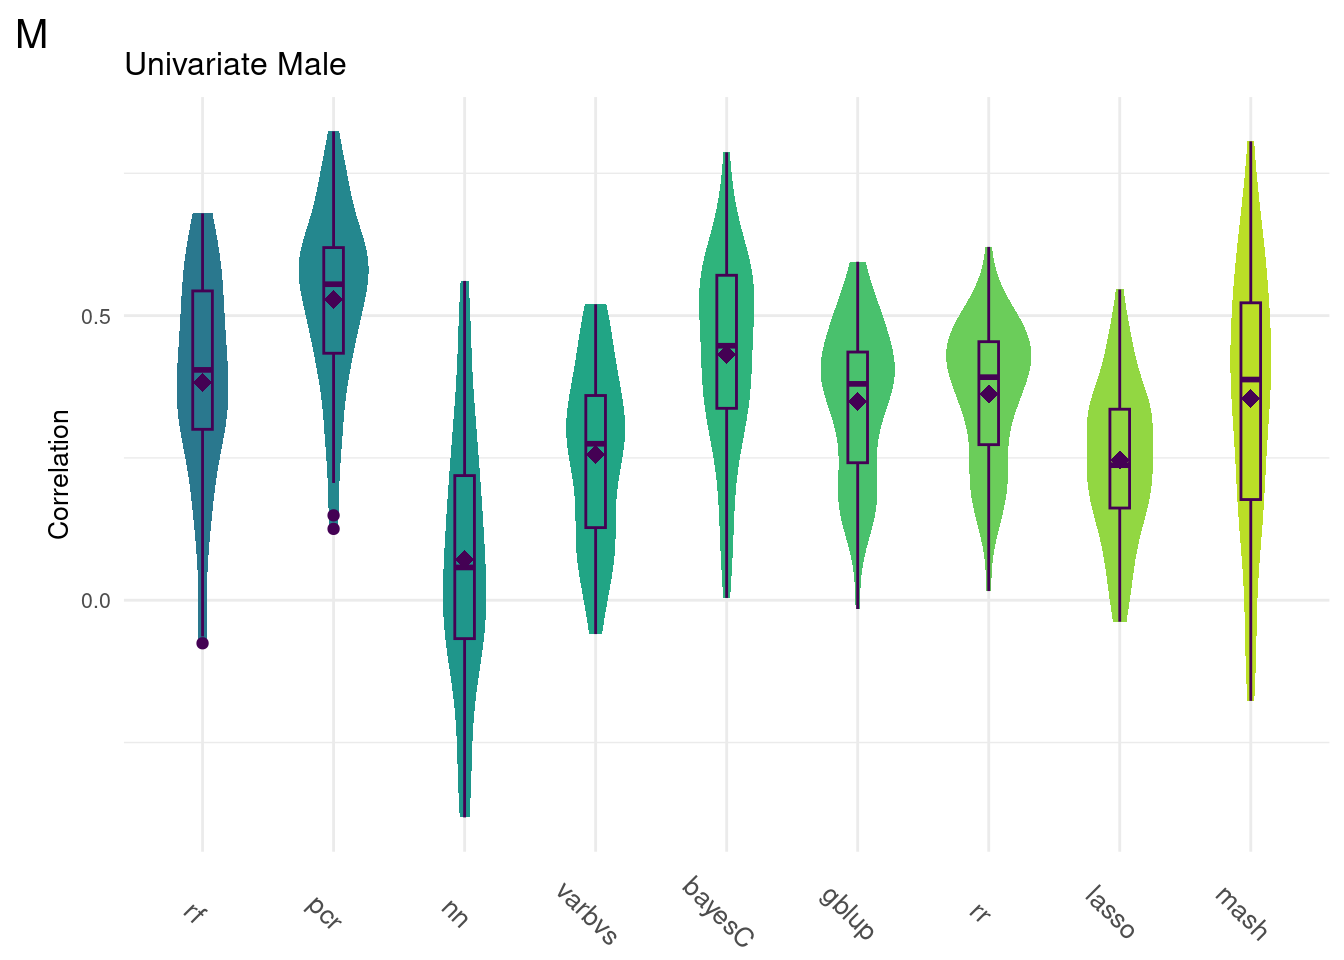
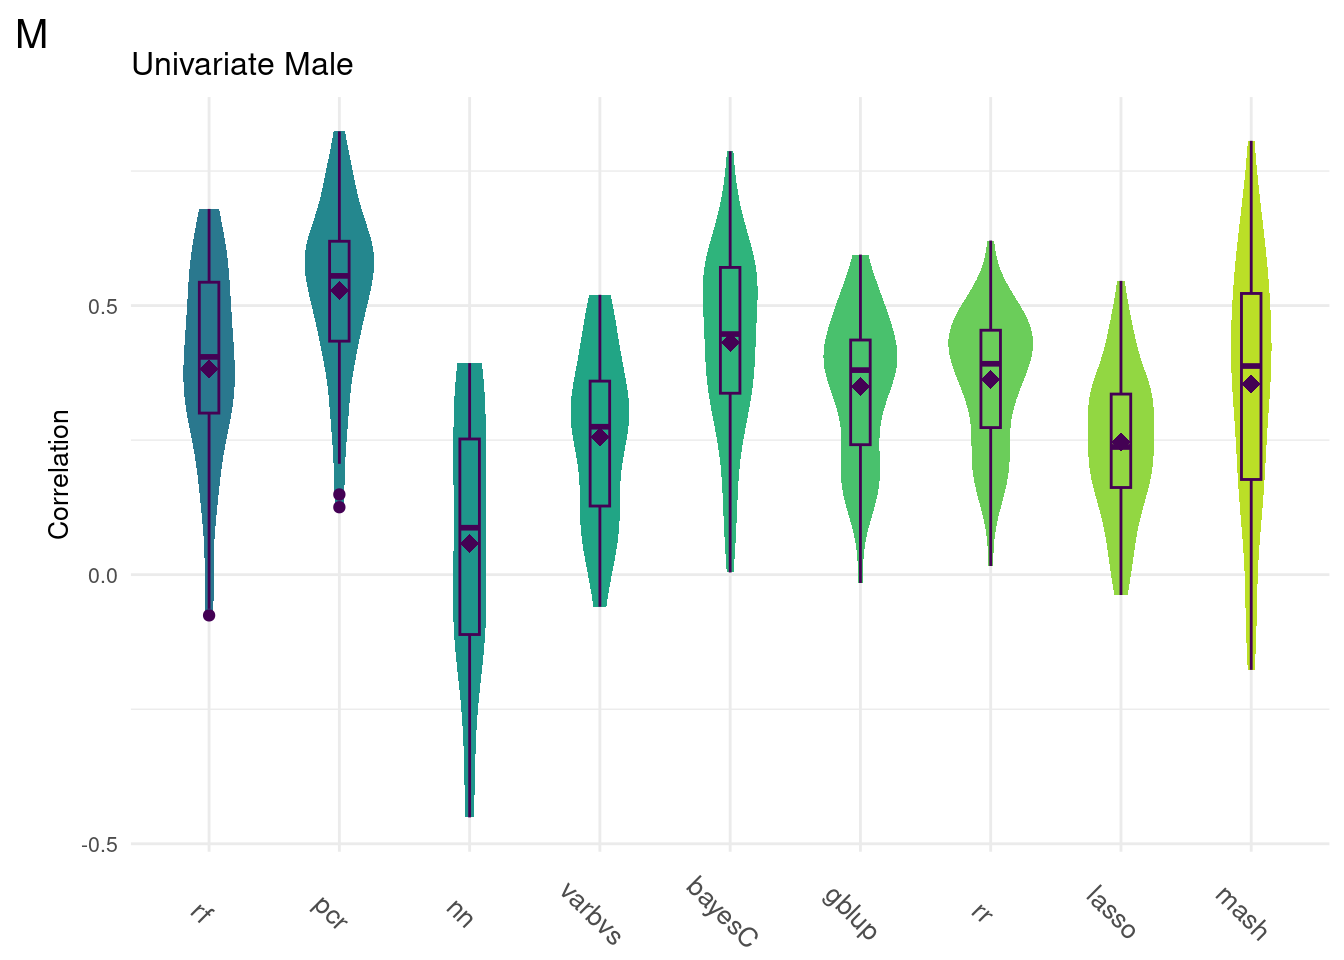
Build site.

diff --git a/docs/allHist.html b/docs/allHist.html
@@ -509,16 +509,16 @@ relative
 <div class="panel panel-default">
 <div class="panel-heading">
 <p class="panel-title">
-<a data-toggle="collapse" data-parent="#workflowr-checks" href="#strongRepositoryversionstrongahrefhttpsgithubcomnklimkodgrpstarvetree8ead827b248524e68d53af8c4d3816b17516016atargetblank8ead827a"> <span class="glyphicon glyphicon-ok text-success" aria-hidden="true"></span> <strong>Repository version:</strong> <a href="https://github.com/nklimko/dgrp-starve/tree/8ead827b248524e68d53af8c4d3816b17516016a" target="_blank">8ead827</a> </a>
+<a data-toggle="collapse" data-parent="#workflowr-checks" href="#strongRepositoryversionstrongahrefhttpsgithubcomnklimkodgrpstarvetree2f076f141ffc61b3817a6178847c19109aa38c53targetblank2f076f1a"> <span class="glyphicon glyphicon-ok text-success" aria-hidden="true"></span> <strong>Repository version:</strong> <a href="https://github.com/nklimko/dgrp-starve/tree/2f076f141ffc61b3817a6178847c19109aa38c53" target="_blank">2f076f1</a> </a>
 </p>
 </div>
[2 lines of base64/hex data omitted]
 <div class="panel-body">
 <p>
 Great! You are using Git for version control. Tracking code development and connecting the code version to the results is critical for reproducibility.
 </p>
 <p>
-The results in this page were generated with repository version <a href="https://github.com/nklimko/dgrp-starve/tree/8ead827b248524e68d53af8c4d3816b17516016a" target="_blank">8ead827</a>. See the <em>Past versions</em> tab to see a history of the changes made to the R Markdown and HTML files.
+The results in this page were generated with repository version <a href="https://github.com/nklimko/dgrp-starve/tree/2f076f141ffc61b3817a6178847c19109aa38c53" target="_blank">2f076f1</a>. See the <em>Past versions</em> tab to see a history of the changes made to the R Markdown and HTML files.
 </p>
 <p>
 Note that you need to be careful to ensure that all relevant files for the analysis have been committed to Git prior to generating the results (you can use <code>wflow_publish</code> or <code>wflow_git_commit</code>). workflowr only checks the R Markdown file, but you know if there are other scripts or data files that it depends on. Below is the status of the Git repository when the results were generated:
@@ -592,6 +592,7 @@ Untracked files:
     Untracked:  posterPlots.R
     Untracked:  runtime.png
     Untracked:  snake/
+    Untracked:  temp.R
 
 Unstaged changes:
     Modified:   .Rprofile
@@ -691,6 +692,40 @@ Message
 </tr>
 </thead>
 <tbody>
+<tr>
+<td>
+Rmd
+</td>
+<td>
+<a href="https://github.com/nklimko/dgrp-starve/blob/2f076f141ffc61b3817a6178847c19109aa38c53/analysis/allHist.Rmd" target="_blank">2f076f1</a>
+</td>
+<td>
+nklimko
+</td>
+<td>
+2023-08-29
+</td>
+<td>
+wflow_publish(“analysis/allHist.Rmd”)
+</td>
+</tr>
+<tr>
+<td>
+html
+</td>
+<td>
+<a href="https://rawcdn.githack.com/nklimko/dgrp-starve/882cd4930eb2907c53bd895d930f9cf88cd69b2e/docs/allHist.html" target="_blank">882cd49</a>
+</td>
+<td>
+nklimko
+</td>
+<td>
+2023-08-29
+</td>
+<td>
+Build site.
+</td>
+</tr>
 <tr>
 <td>
 Rmd
@@ -862,17 +897,41 @@ filt &lt;- function(data, method){
     return(NA)
   }
 }</code></pre>
-<p>Pseudo:</p>
-<p>Intro to why</p>
-<p>Intro to methods</p>
-<p>Method line by line</p>
-<p>Results (all hist)</p>
-<p>explanation uni about equal to multi</p>
-<p>(sr hist)</p>
+<div id="intro-to-why" class="section level3">
+<h3>Intro to why</h3>
+<p>Complex trait prediction is based on the notion that some traits are impacted by a large number of small-effect genes which makes diagnosis or prediction challenging.</p>
+<p>We are using gene expression data over genomic frequencies as they have shown previously to provide more accurate models.</p>
+<p>This project is designed to establish a baseline comparison for statistical methods commonly used in the field</p>
+</div>
+<div id="intro-to-methods" class="section level3">
+<h3>Intro to methods</h3>
+<p>In order to improve model accuracy, we look at shrinkage and variable selection. Too much of either can result in overfitting of the model, but failure to perform either results in large variance that diminishes model accuracy.</p>
+<p>Shrinkage is based on the assumption that not all independent variables have the same effect on the response variable in a given model. The effects are scaled by a distribution of our choosing based on our assumption of the model. A normal distribution centered around 0 will scale most effects down while leaving more significant effects closer to 1. Changing the shape of the distribution changes the degree of shrinkage applied to the model.</p>
+<p>Variable selection takes another step in model assumptions. We assume under a general model that all variables have some effect on the response even if the effect is small. In order to reduce noise, we can select for variables that only have stronger effects by discarding weaker or insignificant independent variables from the model. With genes, this models our assumption that not all genes have an effect on the trait of interest, while a number of genes will have a pronounced effect on our complex trait.</p>
+</div>
+<div id="method-line-by-line" class="section level3">
+<h3>Method line by line</h3>
+<ul>
+<li><p>Random Forest: Random forest is a machine learning method that creates random networks of decision trees to create a linear regression Random Forest decision trees are used to discover impactful genes similar to how PCR selects for variance maximizing components.</p></li>
+<li><p>Principal Component Regression (PCR): Principal Component Regression uses principal component analysis to find combinations of independent variables that maximize the change in variance on the response variable. This process greatly reduces the dimensionality of the data. Within this, variable selection can be performed optimally by finding the greatest change in total variance explained and only using principal components up to that point.</p></li>
+<li><p>Neural Network (NN): Neural networks are a type of machine learning method where hidden layers of hyperparameters are used to evaluate the data. Learning is rewarded by maximizing change in variance. The current model has five layers with 7500, 5000, 2500, 1000, and 500 hyperparameters in order.</p></li>
+<li><p>Bayesian Variable Selection (BVS): Bayesian Variable Selection(BVS) uses a spike-and-slab prior to perform effect shrinkage and variable selection. The model is fit using Variational Inference(VI) methods.</p></li>
+<li><p>BayesC - BayesC uses a spike-and-slab prior to perform effect shrinkage and variable selection. The model is fit using Markov Chain Monte Carlo(MCMC) methods.</p></li>
+<li><p>Genomic Best Linear Unbiased Predictor (GBLUP): GBLUP is a linear mixed model created using the covariance of genomic relationships(geneXgene) to perform effect shrinkage.</p></li>
+<li><p>Ridge Regression (RR):Ridge Regression is a penalized regression method that performs effect shrinkage only.</p></li>
+<li><p>Least Absolute Shrinkage and Selection Operator (LASSO): LASSO uses the same penalized regression as Ridge regression with an added parameter to perform both effect shrinkage and variable selection.</p></li>
+<li><p>Multiple Regression with Multivariate Adaptive Shrinkage (MR.MASH): Mr. Mash performs shrinkage and variable selection by using a custom mixed prior. This prior can be generated using summary statistics alone or can be layered with covariance matrices derived from strong effects.</p></li>
+</ul>
+</div>
+<div id="all-models" class="section level3">
+<h3>All Models</h3>
+<p>Wtih traits that are correlated, we expect that changes in the trait of interest can be described by changes in additional trait values. We sought to incorporate this by taking the top three correlated traits into account in our multivariate models. The traits capillary feeding, free glycerol, and free glucose were selected for both males and females.</p>
+<p>In order to see if correlated traits could be used to improve model accuracy, we performed both univariate and multivariate analyses with models that permitted multiple response prediction.</p>
+<p>For every method tested, fifty replicates were created using an 80% train/20% test data split by DGRP2 line. Each column below is a distribution of the method’s correlation coefficient from all replicates.</p>
 <pre class="r"><code>allData &lt;- readRDS(&quot;data/all_hist_data_f.Rds&quot;)
 print(colMeans(allData))</code></pre>
 <pre><code>        sr_rf        sr_pcr         sr_nn     sr_varbvs     sr_bayesC 
-   0.36402243    0.45831216    0.05758642    0.41300077    0.31800121 
+   0.36402243    0.45831216            NA    0.41300077    0.31800121 
   top3_bayesC      sr_gblup    top3_gblup         sr_rr      sr_lasso 
    0.25436812    0.27998224    0.30159686    0.28108963    0.34736423 
    top3_lasso       sr_mash     top3_mash top3_datamash 
@@ -916,7 +975,7 @@ if(game){
 <pre class="r"><code>allData &lt;- readRDS(&quot;data/all_hist_data_m.Rds&quot;)
 print(colMeans(allData))</code></pre>
 <pre><code>        sr_rf        sr_pcr         sr_nn     sr_varbvs     sr_bayesC 
-   0.38175574    0.52833378    0.07124629    0.25543960    0.43129890 
+   0.38175574    0.52833378            NA    0.25543960    0.43129890 
   top3_bayesC      sr_gblup    top3_gblup         sr_rr      sr_lasso 
    0.35203327    0.34913991    0.36524616    0.36257400    0.24606199 
    top3_lasso       sr_mash     top3_mash top3_datamash 
@@ -957,18 +1016,167 @@ if(game){
           plot.tag = element_text(size=15)) +
     scale_fill_viridis(begin = 0.4, end=0.9,discrete=TRUE)
 }</code></pre>
-<div id="female-correlation" class="section level3">
-<h3>Female Correlation</h3>
+</div>
+<div id="univariate-models" class="section level3">
+<h3>Univariate Models</h3>
 <pre class="r"><code>plot_grid(gg[[1]], ncol=1)</code></pre>
 <p><img src="figure/allHist.Rmd/plot-print-all-1.png" width="672" style="display: block; margin: auto;" /></p>
+<p>
+<button type="button" class="btn btn-default btn-xs btn-workflowr btn-workflowr-fig" data-toggle="collapse" data-target="#fig-plot-print-all-1">
+Past versions of plot-print-all-1.png
+</button>
+</p>
+<div id="fig-plot-print-all-1" class="collapse">
+<div class="table-responsive">
+<table class="table table-condensed table-hover">
+<thead>
+<tr>
+<th>
+Version
+</th>
+<th>
+Author
+</th>
+<th>
+Date
+</th>
+</tr>
+</thead>
+<tbody>
+<tr>
+<td>
+<a href="https://github.com/nklimko/dgrp-starve/blob/882cd4930eb2907c53bd895d930f9cf88cd69b2e/docs/figure/allHist.Rmd/plot-print-all-1.png" target="_blank">882cd49</a>
+</td>
+<td>
+nklimko
+</td>
+<td>
+2023-08-29
+</td>
+</tr>
+</tbody>
+</table>
+</div>
+</div>
 <pre class="r"><code>plot_grid(gg[[2]], ncol=1)</code></pre>
 <p><img src="figure/allHist.Rmd/plot-print-all-2.png" width="672" style="display: block; margin: auto;" /></p>
-<p>Given that the multivariate methods do not seem to do better, we will now focus only on the univariate methods.</p>
-<p>Below is the remaining univariate method correlations</p>
+<p>
+<button type="button" class="btn btn-default btn-xs btn-workflowr btn-workflowr-fig" data-toggle="collapse" data-target="#fig-plot-print-all-2">
+Past versions of plot-print-all-2.png
+</button>
+</p>
+<div id="fig-plot-print-all-2" class="collapse">
+<div class="table-responsive">
+<table class="table table-condensed table-hover">
+<thead>
+<tr>
+<th>
+Version
+</th>
+<th>
+Author
+</th>
+<th>
+Date
+</th>
+</tr>
+</thead>
+<tbody>
+<tr>
+<td>
+<a href="https://github.com/nklimko/dgrp-starve/blob/882cd4930eb2907c53bd895d930f9cf88cd69b2e/docs/figure/allHist.Rmd/plot-print-all-2.png" target="_blank">882cd49</a>
+</td>
+<td>
+nklimko
+</td>
+<td>
+2023-08-29
+</td>
+</tr>
+</tbody>
+</table>
+</div>
+</div>
+<p>Comparison shows that multivariate methods do not significantly improve the model accuracy. As such, we will focus on univariate methods moving forward.</p>
+<p>Below are the univariate models alone.</p>
 <pre class="r"><code>plot_grid(gg[[3]], ncol=1)</code></pre>
 <p><img src="figure/allHist.Rmd/plot-print-univariate-1.png" width="672" style="display: block; margin: auto;" /></p>
+<p>
+<button type="button" class="btn btn-default btn-xs btn-workflowr btn-workflowr-fig" data-toggle="collapse" data-target="#fig-plot-print-univariate-1">
+Past versions of plot-print-univariate-1.png
+</button>
+</p>
+<div id="fig-plot-print-univariate-1" class="collapse">
+<div class="table-responsive">
+<table class="table table-condensed table-hover">
+<thead>
+<tr>
+<th>
+Version
+</th>
+<th>
+Author
+</th>
+<th>
+Date
+</th>
+</tr>
+</thead>
+<tbody>
+<tr>
+<td>
+<a href="https://github.com/nklimko/dgrp-starve/blob/882cd4930eb2907c53bd895d930f9cf88cd69b2e/docs/figure/allHist.Rmd/plot-print-univariate-1.png" target="_blank">882cd49</a>
+</td>
+<td>
+nklimko
+</td>
+<td>
+2023-08-29
+</td>
+</tr>
+</tbody>
+</table>
+</div>
+</div>
 <pre class="r"><code>plot_grid(gg[[4]], ncol=1)</code></pre>
 <p><img src="figure/allHist.Rmd/plot-print-univariate-2.png" width="672" style="display: block; margin: auto;" /></p>
+<p>
+<button type="button" class="btn btn-default btn-xs btn-workflowr btn-workflowr-fig" data-toggle="collapse" data-target="#fig-plot-print-univariate-2">
+Past versions of plot-print-univariate-2.png
+</button>
+</p>
+<div id="fig-plot-print-univariate-2" class="collapse">
+<div class="table-responsive">
+<table class="table table-condensed table-hover">
+<thead>
+<tr>
+<th>
+Version
+</th>
+<th>
+Author
+</th>
+<th>
+Date
+</th>
+</tr>
+</thead>
+<tbody>
+<tr>
+<td>
+<a href="https://github.com/nklimko/dgrp-starve/blob/882cd4930eb2907c53bd895d930f9cf88cd69b2e/docs/figure/allHist.Rmd/plot-print-univariate-2.png" target="_blank">882cd49</a>
+</td>
+<td>
+nklimko
+</td>
+<td>
+2023-08-29
+</td>
+</tr>
+</tbody>
+</table>
+</div>
+</div>
 <br>
 <p>
 <button type="button" class="btn btn-default btn-workflowr btn-workflowr-sessioninfo" data-toggle="collapse" data-target="#workflowr-sessioninfo" style="display: block;">
